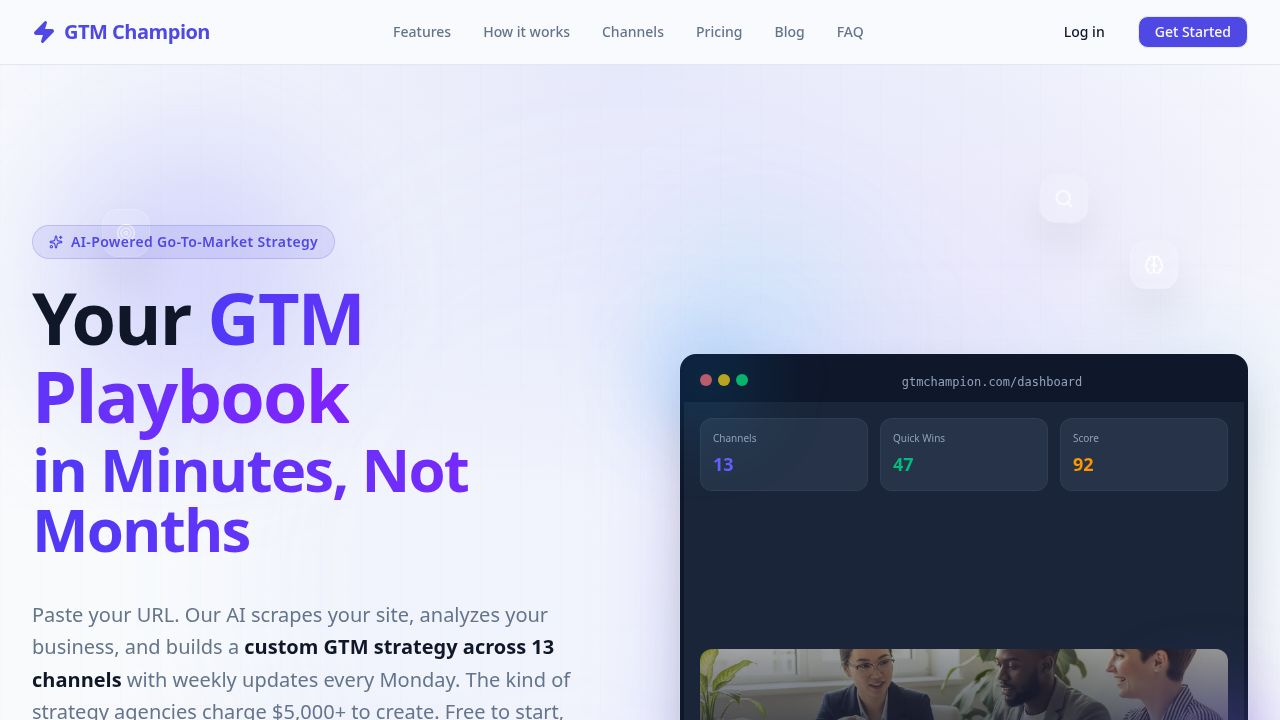
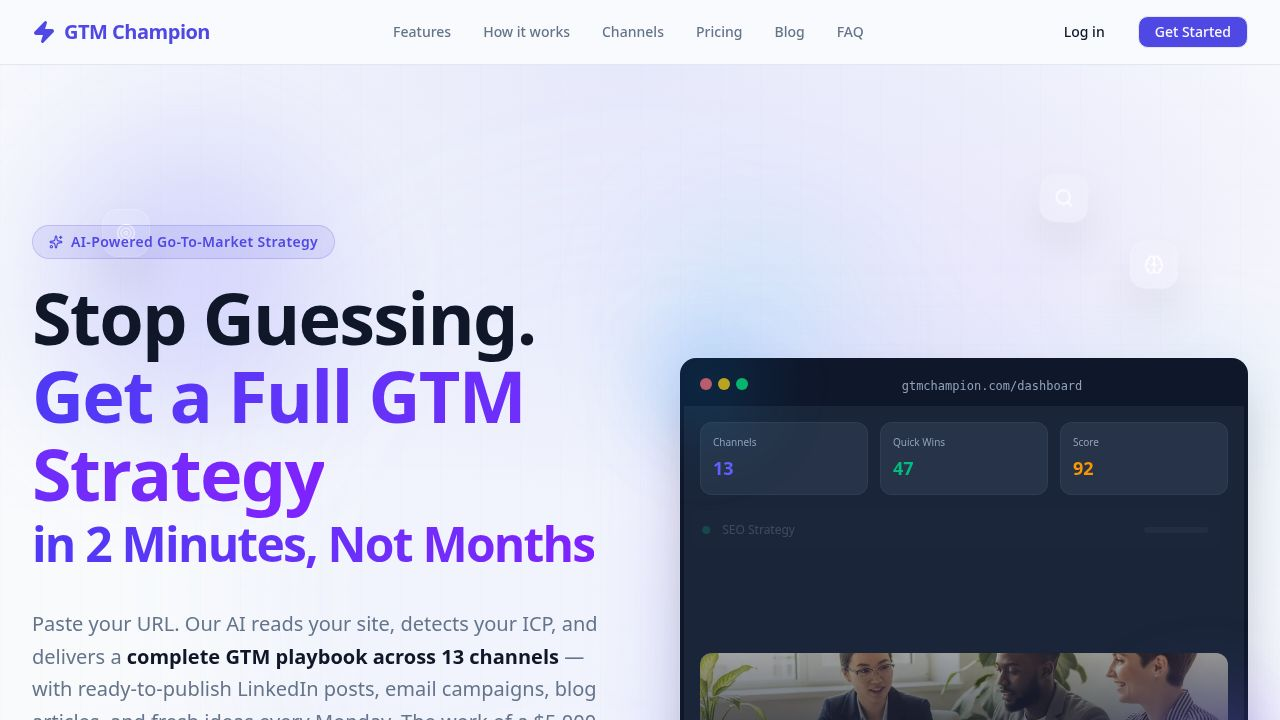
Add AI content generation and improve GTM strategy features
Adds AI content tools, ICP detection, GTM funnel tagging, and PDF export to the landing page, while updating various sections and FAQ items.

Replit-Commit-Author: Agent
Replit-Commit-Session-Id: 5aa7212c-6d28-431f-896d-ee0abf825f2a
Replit-Commit-Checkpoint-Type: full_checkpoint
Replit-Commit-Event-Id: 902ad9ff-43fc-445a-a18d-e904f68ac9eb
Replit-Commit-Screenshot-Url: https://storage.googleapis.com/screenshot-production-us-central1/4ae7c720-ce84-4ffb-b214-d27a5fd2bc1b/5aa7212c-6d28-431f-896d-ee0abf825f2a/VLwoQMI
Replit-Helium-Checkpoint-Created: true

diff --git a/client/src/pages/landing-page.tsx b/client/src/pages/landing-page.tsx
@@ -25,7 +25,13 @@ import {
   ChevronUp,
   Sparkles,
   Clock,
-  Shield
+  Shield,
+  FileText,
+  Download,
+  Layers,
+  UserCheck,
+  Wallet,
+  History
 } from "lucide-react";
 import { Button } from "@/components/ui/button";
 import { Card, CardContent, CardDescription, CardFooter, CardHeader, CardTitle } from "@/components/ui/card";
@@ -52,27 +58,39 @@ const CHANNELS = [
 const FAQ_ITEMS = [
   {
     question: "What is GTM Champion?",
-    answer: "GTM Champion is an AI-powered Go-To-Market strategy platform for B2B SaaS companies. It analyzes your website, understands your product and target audience, and generates personalized marketing recommendations across 13 channels including SEO, paid search, content marketing, ABM, and partnerships."
+    answer: "GTM Champion is an AI-powered Go-To-Market strategy platform for B2B SaaS companies. It analyzes your website, detects your Ideal Customer Profile, and generates a personalized GTM playbook across 13 channels — complete with LinkedIn posts, email campaigns, blog articles, and weekly strategy updates."
   },
   {
     question: "How does GTM Champion work?",
-    answer: "Simply enter your website URL and GTM Champion's AI will scrape and analyze your site content. Within seconds, you'll receive a comprehensive GTM strategy with channel-specific recommendations, quick wins, KPIs to track, and weekly content ideas tailored to your business."
+    answer: "Enter your website URL and GTM Champion crawls your homepage, pricing page, about page, and more to extract your real product details, pricing tiers, competitors, and brand voice. It then builds a full strategy with channel-specific recommendations, quick wins, KPIs, and ready-to-publish content — all in about 2 minutes."
   },
   {
     question: "What marketing channels does GTM Champion cover?",
     answer: "GTM Champion provides strategies for 13 marketing channels: SEO, LLMs/AI Search, Paid Search, Paid Social, Organic Social, Retargeting, CRO (Conversion Rate Optimization), Email Marketing, Content Marketing, Community Building, ABM (Account-Based Marketing), Partnerships, and Outbound Sales."
   },
   {
+    question: "What are the AI Content Tools?",
+    answer: "Once your strategy is built, you can instantly generate publish-ready content: LinkedIn posts written in your brand voice, full email campaigns with subject lines and body copy, and long-form blog articles optimized for SEO — all referencing your actual product names, features, and competitive positioning. Every piece can be copied or downloaded in one click."
+  },
+  {
+    question: "What does 'GTM funnel tagging' mean?",
+    answer: "Every recommendation is automatically labeled as PLG (Product-Led Growth), Sales-Led, or Both — so you always know which motion a tactic serves. This helps you prioritize the right activities whether you're running a freemium self-serve model, a high-touch enterprise sales cycle, or a hybrid approach."
+  },
+  {
+    question: "What is ICP detection?",
+    answer: "GTM Champion automatically extracts your Ideal Customer Profile from your website — including the buyer persona, company size, industry, and pain points your product solves. You can view and edit this directly on the dashboard, and every recommendation is personalized around it."
+  },
+  {
     question: "Is GTM Champion free to use?",
-    answer: "Yes — the free plan is generous. You get full GTM analysis across all 13 channels, AI chat, content tools (with daily limits), weekly strategy emails, and one website re-analysis per week. No credit card required to start. GTM Champion Pro ($29/mo or $290/yr) unlocks 10x higher AI limits, branded multi-page PDF exports, unlimited re-analysis with 12-month strategy history, and up to 8 buyer personas with A/B budget scenarios."
+    answer: "Yes — the free plan is generous. You get full GTM analysis across all 13 channels, AI chat, content tools, weekly strategy emails, PDF and CSV export, and one website re-analysis per week. No credit card required. GTM Champion Pro ($29/mo or $290/yr) unlocks 10x higher AI limits, branded multi-page PDF exports, unlimited re-analysis with 12-month strategy history, up to 8 buyer personas, and A/B budget scenarios."
   },
   {
     question: "What are the weekly AI content sprints?",
-    answer: "Every Monday morning, GTM Champion sends you a fresh batch of actionable content ideas and marketing tactics via email. These are personalized to your business and designed to be executed within the week for maximum impact."
+    answer: "Every Monday morning, GTM Champion sends a fresh batch of actionable content ideas and marketing tactics to your inbox — personalized to your business and designed to be executed within the week for maximum impact."
   },
   {
-    question: "Can I ask questions about my GTM strategy?",
-    answer: "Yes! GTM Champion includes an AI assistant that answers your marketing questions with personalized advice based on your company's specific context, business model, and GTM motion. Ask about any channel and get actionable recommendations."
+    question: "Can I export my GTM strategy?",
+    answer: "Yes. Download your full strategy as a professionally formatted PDF report (cover page, executive summary, per-channel strategies, weekly ideas, and a recommendations summary) or export all recommendations as a CSV to share with your team. Pro users get branded multi-page PDFs with your company logo embedded."
   }
 ];
 
@@ -222,10 +240,10 @@ function DashboardPreview() {
 }
 
 const HERO_ROTATING_WORDS = [
-  "in Minutes, Not Months",
+  "in 2 Minutes, Not Months",
   "Across 13 Channels",
-  "Powered by GPT-5",
-  "Free to Start",
+  "With AI That Knows Your Brand",
+  "Free to Start Today",
 ];
 
 function AnimatedCounter({ target, suffix = "", duration = 2000 }: { target: number; suffix?: string; duration?: number }) {
@@ -324,13 +342,18 @@ export default function LandingPage() {
             { "@type": "Offer", "name": "Pro Annual", "price": "290", "priceCurrency": "USD", "description": "All Pro features billed annually. $290 per year (save ~17% vs monthly)." }
           ],
           "featureList": [
-            "AI-powered website analysis",
+            "Deep website personalization with multi-page scraping",
+            "ICP detection and editing",
             "13 marketing channel strategies",
-            "Personalized GTM recommendations",
-            "Weekly content ideas via email",
+            "GTM funnel tagging (PLG, Sales-Led, Both)",
+            "AI LinkedIn post, email campaign, and blog article generator",
             "AI Q&A assistant",
-            "Content generation tools",
-            "PageSpeed performance insights"
+            "Weekly email strategy sprints",
+            "PDF and CSV export",
+            "PageSpeed and Core Web Vitals insights",
+            "A/B budget scenarios (Pro)",
+            "12-month strategy history (Pro)",
+            "Up to 8 buyer personas (Pro)"
           ]
         })}</script>
         <script type="application/ld+json">{JSON.stringify({
@@ -402,9 +425,9 @@ export default function LandingPage() {
                     AI-Powered Go-To-Market Strategy
                   </span>
                   <h1 id="hero-heading" className="text-3xl sm:text-4xl md:text-6xl lg:text-7xl font-display font-bold tracking-tight leading-[1.08] text-foreground">
-                    Your <span className="gradient-text">GTM Playbook</span>
-                    <br className="hidden sm:block" />
-                    <span className="block text-2xl sm:text-3xl md:text-5xl lg:text-6xl mt-1">
+                    Stop Guessing.<br className="hidden sm:block" />
+                    <span className="gradient-text">Get a Full GTM Strategy</span>
+                    <span className="block text-2xl sm:text-3xl md:text-5xl lg:text-5xl mt-2">
                       <AnimatePresence mode="wait">
                         <motion.span
                           key={heroWordIndex}
@@ -422,7 +445,7 @@ export default function LandingPage() {
                 </motion.div>
                 
                 <motion.p variants={itemVariants} className="text-sm md:text-xl text-muted-foreground max-w-xl leading-relaxed">
-                  Paste your URL. Our AI scrapes your site, analyzes your business, and builds a <strong className="text-foreground">custom GTM strategy across 13 channels</strong> with weekly updates every Monday. The kind of strategy agencies charge $5,000+ to create. Free to start, Pro from $29/mo.
+                  Paste your URL. Our AI reads your site, detects your ICP, and delivers a <strong className="text-foreground">complete GTM playbook across 13 channels</strong> — with ready-to-publish LinkedIn posts, email campaigns, blog articles, and fresh ideas every Monday. The work of a $5,000 consultant, free to start.
                 </motion.p>
                 
                 <motion.div variants={itemVariants} className="flex flex-col sm:flex-row gap-3">
@@ -543,8 +566,8 @@ export default function LandingPage() {
                   },
                   {
                     step: "3",
-                    title: "Execute & Get Weekly Updates",
-                    description: "Track recommendations, generate content with built-in writing tools, and receive fresh strategy ideas in your inbox every Monday morning.",
+                    title: "Write, Execute & Stay Current",
+                    description: "Generate LinkedIn posts, email campaigns, and blog articles in one click. Track recommendations on the dashboard, and get fresh strategy ideas every Monday morning.",
                     gradient: "from-indigo-500 to-violet-600",
                     shadow: "shadow-indigo-500/30",
                   }
@@ -603,8 +626,8 @@ export default function LandingPage() {
               {[
                 {
                   icon: <Brain className="h-8 w-8 text-indigo-500" aria-hidden="true" />,
-                  title: "AI-Powered Analysis",
-                  description: "GPT-5 analyzes your website content and generates personalized strategies based on your unique business model and target audience.",
+                  title: "Deep Personalization",
+                  description: "Our AI crawls your homepage, pricing page, about page, and more — extracting your real product names, features, pricing tiers, and competitors to personalize every recommendation.",
                   span: "md:col-span-4 lg:col-span-7",
                   gradient: "from-indigo-500/10 to-violet-500/10",
                   borderGradient: "from-indigo-500/30 via-violet-500/20 to-transparent",
@@ -612,15 +635,39 @@ export default function LandingPage() {
                 {
                   icon: <BarChart3 className="h-8 w-8 text-emerald-500" aria-hidden="true" />,
                   title: "13 Channel Strategies",
-                  description: "Get tailored recommendations for SEO, paid ads, content, email, ABM, partnerships, outbound, and 6 more marketing channels.",
+                  description: "Get tailored recommendations for SEO, paid ads, content, email, ABM, partnerships, outbound, and 6 more — all personalized to your GTM motion.",
                   span: "md:col-span-2 lg:col-span-5",
                   gradient: "from-emerald-500/10 to-teal-500/10",
                   borderGradient: "from-emerald-500/30 via-teal-500/20 to-transparent",
                 },
                 {
+                  icon: <PenTool className="h-8 w-8 text-violet-500" aria-hidden="true" />,
+                  title: "AI Content Tools",
+                  description: "Generate ready-to-publish LinkedIn posts, full email campaigns, and long-form blog articles — all written in your brand voice using your actual product details.",
+                  span: "md:col-span-3 lg:col-span-5",
+                  gradient: "from-violet-500/10 to-purple-500/10",
+                  borderGradient: "from-violet-500/30 via-purple-500/20 to-transparent",
+                },
+                {
+                  icon: <Layers className="h-8 w-8 text-rose-500" aria-hidden="true" />,
+                  title: "GTM Funnel Tagging",
+                  description: "Every recommendation is automatically tagged as PLG, Sales-Led, or Both — so you always know which motion each tactic serves.",
+                  span: "md:col-span-3 lg:col-span-4",
+                  gradient: "from-rose-500/10 to-pink-500/10",
+                  borderGradient: "from-rose-500/30 via-pink-500/20 to-transparent",
+                },
+                {
+                  icon: <UserCheck className="h-8 w-8 text-cyan-500" aria-hidden="true" />,
+                  title: "ICP Detection & Editing",
+                  description: "Your Ideal Customer Profile is auto-detected from your site — persona, company size, industry, and pain points — and fully editable right on the dashboard.",
+                  span: "md:col-span-3 lg:col-span-3",
+                  gradient: "from-cyan-500/10 to-sky-500/10",
+                  borderGradient: "from-cyan-500/30 via-sky-500/20 to-transparent",
+                },
+                {
                   icon: <MessageSquare className="h-8 w-8 text-blue-500" aria-hidden="true" />,
                   title: "AI Q&A Assistant",
-                  description: "Ask questions about your GTM strategy and get personalized answers based on your company's context and marketing goals.",
+                  description: "Ask anything about your GTM strategy and get personalized answers grounded in your company's actual context, channels, and goals.",
                   span: "md:col-span-3 lg:col-span-4",
                   gradient: "from-blue-500/10 to-cyan-500/10",
                   borderGradient: "from-blue-500/30 via-cyan-500/20 to-transparent",
@@ -628,40 +675,48 @@ export default function LandingPage() {
                 {
                   icon: <Mail className="h-8 w-8 text-amber-500" aria-hidden="true" />,
                   title: "Weekly Email Sprints",
-                  description: "Receive fresh, actionable content ideas every Monday morning tailored to your business and ready to execute.",
+                  description: "Every Monday, a fresh batch of actionable content ideas lands in your inbox — personalized to your business and ready to execute that week.",
                   span: "md:col-span-3 lg:col-span-4",
                   gradient: "from-amber-500/10 to-orange-500/10",
                   borderGradient: "from-amber-500/30 via-orange-500/20 to-transparent",
                 },
                 {
-                  icon: <Target className="h-8 w-8 text-rose-500" aria-hidden="true" />,
-                  title: "Quick Wins",
-                  description: "Each channel includes low-effort, high-impact tactics you can implement this week to start seeing results fast.",
-                  span: "md:col-span-3 lg:col-span-4",
-                  gradient: "from-rose-500/10 to-pink-500/10",
-                  borderGradient: "from-rose-500/30 via-pink-500/20 to-transparent",
-                },
-                {
-                  icon: <TrendingUp className="h-8 w-8 text-cyan-500" aria-hidden="true" />,
-                  title: "KPIs & Metrics",
-                  description: "Know exactly what to measure with channel-specific KPIs and benchmarks based on 2025 B2B SaaS industry standards.",
-                  span: "md:col-span-3 lg:col-span-4",
-                  gradient: "from-cyan-500/10 to-sky-500/10",
-                  borderGradient: "from-cyan-500/30 via-sky-500/20 to-transparent",
-                },
-                {
-                  icon: <Globe className="h-8 w-8 text-purple-500" aria-hidden="true" />,
-                  title: "PageSpeed Insights",
-                  description: "Automatic performance audits with Core Web Vitals, loading scores, and optimization recommendations for your site.",
+                  icon: <Download className="h-8 w-8 text-purple-500" aria-hidden="true" />,
+                  title: "PDF & CSV Export",
+                  description: "Download your full GTM strategy as a professionally formatted PDF report or export all recommendations as a CSV — shareable with your whole team.",
                   span: "md:col-span-3 lg:col-span-4",
                   gradient: "from-purple-500/10 to-fuchsia-500/10",
                   borderGradient: "from-purple-500/30 via-fuchsia-500/20 to-transparent",
                 },
                 {
+                  icon: <Globe className="h-8 w-8 text-teal-500" aria-hidden="true" />,
+                  title: "PageSpeed Insights",
+                  description: "Automatic performance audits with Core Web Vitals, loading scores, and top optimization opportunities pulled directly from Google PageSpeed.",
+                  span: "md:col-span-3 lg:col-span-4",
+                  gradient: "from-teal-500/10 to-emerald-500/10",
+                  borderGradient: "from-teal-500/30 via-emerald-500/20 to-transparent",
+                },
+                {
+                  icon: <Wallet className="h-8 w-8 text-orange-500" aria-hidden="true" />,
+                  title: "A/B Budget Scenarios",
+                  description: "Model conservative, balanced, and aggressive budget allocations side-by-side to see exactly where your marketing dollars will have the most impact. (Pro)",
+                  span: "md:col-span-3 lg:col-span-4",
+                  gradient: "from-orange-500/10 to-amber-500/10",
+                  borderGradient: "from-orange-500/30 via-amber-500/20 to-transparent",
+                },
+                {
+                  icon: <History className="h-8 w-8 text-sky-500" aria-hidden="true" />,
+                  title: "12-Month Strategy History",
+                  description: "Re-analyze your website anytime and track how your GTM strategy evolves — every snapshot is saved so you can compare progress over time. (Pro)",
+                  span: "md:col-span-3 lg:col-span-4",
+                  gradient: "from-sky-500/10 to-blue-500/10",
+                  borderGradient: "from-sky-500/30 via-blue-500/20 to-transparent",
+                },
+                {
                   icon: <Sparkles className="h-8 w-8 text-primary" aria-hidden="true" />,
-                  title: "Strategic Pillars",
-                  description: "Get long-term strategic initiatives with specific tactics, objectives, and measurement criteria for each channel.",
-                  span: "md:col-span-3 lg:col-span-8",
+                  title: "Quick Wins + KPIs",
+                  description: "Each channel surfaces low-effort, high-impact tactics you can run this week, plus the exact KPIs and benchmarks to know if they're working.",
+                  span: "md:col-span-6 lg:col-span-4",
                   gradient: "from-indigo-500/10 to-purple-500/10",
                   borderGradient: "from-indigo-500/30 via-purple-500/20 to-transparent",
                 }
@@ -883,6 +938,126 @@ export default function LandingPage() {
                   </div>
                 </div>
               </motion.div>
+            </div>
+          </div>
+        </section>
+
+        <section className="py-16 md:py-36 relative overflow-hidden" aria-labelledby="content-tools-heading">
+          <div className="absolute top-10 left-0 w-72 h-72 bg-violet-500/5 rounded-full blur-3xl pointer-events-none" aria-hidden="true" />
+          <div className="absolute bottom-10 right-0 w-60 h-60 bg-indigo-500/5 rounded-full blur-3xl pointer-events-none" aria-hidden="true" />
+          <div className="container mx-auto px-4 md:px-8">
+            <div className="grid lg:grid-cols-2 gap-12 lg:gap-20 items-center">
+              <motion.div
+                initial={{ opacity: 0, x: -20 }}
+                whileInView={{ opacity: 1, x: 0 }}
+                viewport={{ once: true }}
+                transition={{ duration: 0.5 }}
+                className="relative order-2 lg:order-1"
+              >
+                <div className="absolute inset-0 bg-gradient-to-br from-violet-500/20 to-indigo-500/20 rounded-2xl blur-xl -m-2" aria-hidden="true" />
+                <div className="relative bg-background rounded-2xl shadow-2xl border border-slate-200 dark:border-slate-700 overflow-hidden">
+                  <div className="flex items-center gap-3 px-5 py-4 border-b bg-gradient-to-r from-slate-50 to-violet-50/30 dark:from-slate-800/50 dark:to-violet-950/20">
+                    <div className="w-10 h-10 rounded-full bg-gradient-to-br from-violet-500 to-indigo-600 flex items-center justify-center shadow-lg shadow-violet-500/20">
+                      <PenTool className="h-5 w-5 text-white" aria-hidden="true" />
+                    </div>
+                    <div>
+                      <p className="font-semibold text-sm">Content Tools</p>
+                      <p className="text-xs text-muted-foreground">Written in your brand voice</p>
+                    </div>
+                  </div>
+                  <div className="p-5 space-y-3">
+                    {[
+                      {
+                        label: "LinkedIn Post",
+                        color: "bg-blue-100 text-blue-700 dark:bg-blue-950/40 dark:text-blue-400",
+                        content: "Most B2B teams waste their biggest GTM asset: their customer success stories. Here's how we helped [Client] 3x their pipeline in 90 days using just two channels...",
+                      },
+                      {
+                        label: "Email Campaign",
+                        color: "bg-amber-100 text-amber-700 dark:bg-amber-950/40 dark:text-amber-400",
+                        content: "Subject: The one GTM mistake costing SaaS teams $50K+\n\nHi [First Name], If you're splitting budget evenly across 13 channels, you're probably funding your 11 weakest ones...",
+                      },
+                      {
+                        label: "Blog Article",
+                        color: "bg-emerald-100 text-emerald-700 dark:bg-emerald-950/40 dark:text-emerald-400",
+                        content: "The 2025 B2B SaaS GTM Playbook: Why PLG and Sales-Led Motions Are Converging — and What It Means for Your Channel Mix...",
+                      },
+                    ].map((item) => (
+                      <div key={item.label} className="rounded-xl bg-slate-50 dark:bg-slate-800/50 p-3.5 border border-slate-100 dark:border-slate-700">
+                        <div className="flex items-center justify-between mb-2">
+                          <span className={`text-[10px] font-semibold px-2 py-0.5 rounded-full ${item.color}`}>{item.label}</span>
+                          <div className="flex gap-1.5">
+                            <div className="h-5 w-12 rounded bg-slate-200 dark:bg-slate-700 text-[9px] flex items-center justify-center text-muted-foreground font-medium">Copy</div>
+                            <div className="h-5 w-16 rounded bg-slate-200 dark:bg-slate-700 text-[9px] flex items-center justify-center text-muted-foreground font-medium">Download</div>
+                          </div>
+                        </div>
+                        <p className="text-xs text-muted-foreground leading-relaxed line-clamp-2">{item.content}</p>
+                      </div>
+                    ))}
+                  </div>
+                </div>
+              </motion.div>
+
+              <div className="space-y-7 order-1 lg:order-2">
+                <motion.div
+                  initial={{ opacity: 0, y: 15 }}
+                  whileInView={{ opacity: 1, y: 0 }}
+                  viewport={{ once: true }}
+                  transition={{ duration: 0.4 }}
+                >
+                  <span className="inline-flex items-center gap-2 px-4 py-1.5 rounded-full bg-violet-500/10 text-violet-600 dark:text-violet-400 text-sm font-semibold border border-violet-500/20">
+                    <PenTool className="h-3.5 w-3.5" aria-hidden="true" />
+                    AI Content Tools
+                  </span>
+                </motion.div>
+                <motion.h2
+                  initial={{ opacity: 0, y: 15 }}
+                  whileInView={{ opacity: 1, y: 0 }}
+                  viewport={{ once: true }}
+                  transition={{ delay: 0.1, duration: 0.4 }}
+                  id="content-tools-heading" className="text-3xl md:text-5xl font-display font-bold"
+                >
+                  Strategy Is Just the Start — <span className="gradient-text">We Write the Content Too</span>
+                </motion.h2>
+                <motion.p
+                  initial={{ opacity: 0, y: 15 }}
+                  whileInView={{ opacity: 1, y: 0 }}
+                  viewport={{ once: true }}
+                  transition={{ delay: 0.15, duration: 0.4 }}
+                  className="text-lg text-muted-foreground leading-relaxed"
+                >
+                  Most strategy tools stop at recommendations. GTM Champion goes further — generating publish-ready content using your actual brand voice, product names, and competitive positioning.
+                </motion.p>
+                <motion.ul
+                  className="space-y-3"
+                  initial={{ opacity: 0, y: 15 }}
+                  whileInView={{ opacity: 1, y: 0 }}
+                  viewport={{ once: true }}
+                  transition={{ delay: 0.2, duration: 0.4 }}
+                >
+                  {[
+                    "LinkedIn posts that sound like you wrote them",
+                    "Full email campaigns with subject lines and body copy",
+                    "Long-form blog articles optimized for SEO",
+                    "One-click copy or download as a file",
+                  ].map((item, idx) => (
+                    <li key={idx} className="flex items-start gap-3">
+                      <CheckCircle2 className="h-5 w-5 text-green-500 mt-0.5 flex-shrink-0" aria-hidden="true" />
+                      <span className="text-muted-foreground">{item}</span>
+                    </li>
+                  ))}
+                </motion.ul>
+                <motion.div
+                  initial={{ opacity: 0, y: 15 }}
+                  whileInView={{ opacity: 1, y: 0 }}
+                  viewport={{ once: true }}
+                  transition={{ delay: 0.25, duration: 0.4 }}
+                >
+                  <Button size="lg" onClick={() => setLocation("/auth")} data-testid="button-try-content-tools" className="group shadow-lg shadow-primary/20">
+                    Try Content Tools Free <ArrowRight className="ml-2 h-5 w-5 group-hover:translate-x-1 transition-transform" aria-hidden="true" />
+                  </Button>
+                </motion.div>
+              </div>
             </div>
           </div>
         </section>
